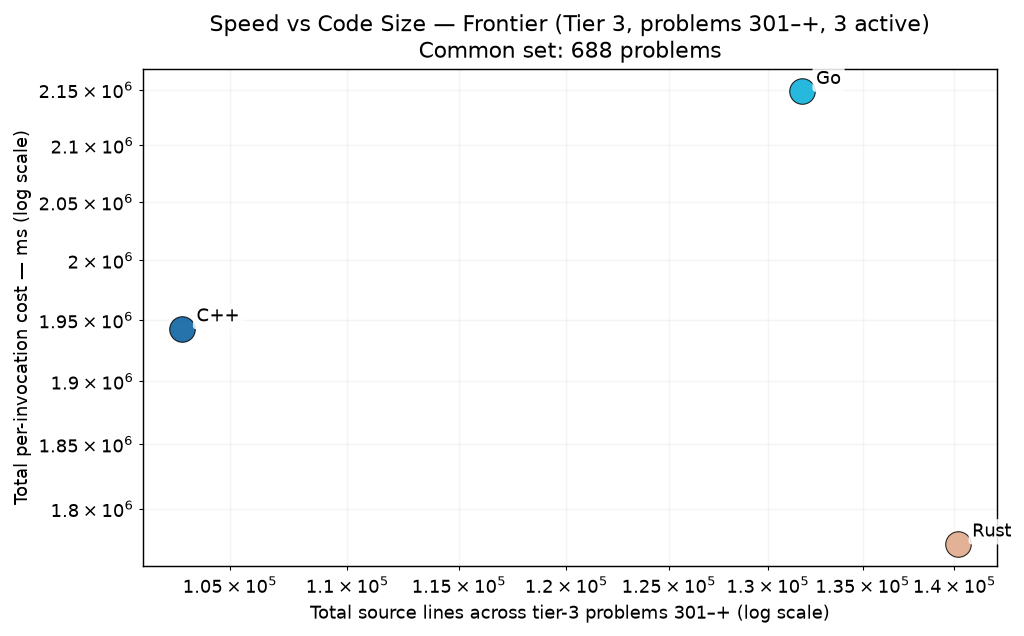
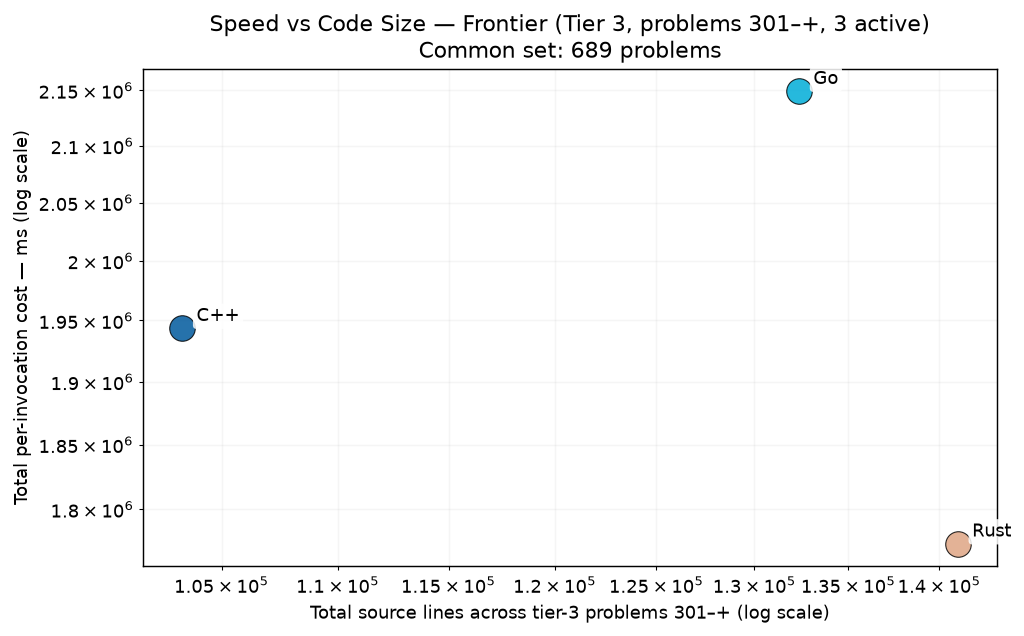
cpp p0947

diff --git a/RESULTS.md b/RESULTS.md
@@ -1,6 +1,6 @@
 # Project Euler — Cross-Language Benchmarks
 
-> **Scope: 4521 in-scope cells across 1007 problems × tiered languages — 4480 measured (99.1% coverage).**
+> **Scope: 4521 in-scope cells across 1007 problems × tiered languages — 4481 measured (99.1% coverage).**
 > The cross-language ranking below is computed over the **200-problem common set** (problems in 1-200 where every language has a passing measurement) — the apples-to-apples Foundation comparison surface.  Per-tier rankings and coverage detail appear further below.
 > Growing carefully — each new problem and language is audited for state-leak
 > safety, verified for answer correctness, and added only when it cleanly fits the
@@ -70,15 +70,15 @@ Same scatter as the Foundation chart, restricted to the tier-2 active languages 
 
 The frontier verification trio — C++, Go, Rust — on problems above 300. 3-way cross-language agreement is the verification protocol (strictly stronger than 2-way; see JOURNEY.md "Tier Reframing" episode for the p254 lesson that motivated it). Python and Zig are explicitly out of this tier — python's wall cost makes it impractical at level 5+, and zig's role caps at Tier 2.
 
-### Per-Invocation Cost (Common Set, 688 of ≤707 problems in scope)
+### Per-Invocation Cost (Common Set, 689 of ≤707 problems in scope)
 
 ![Per-Invocation Cost — Tier 3](charts/per_iter_total_tier3.png)
 
-| Rank | Language | Geomean (688-problem common set) | Total (sum) | Lines of code | vs Fastest |
+| Rank | Language | Geomean (689-problem common set) | Total (sum) | Lines of code | vs Fastest |
 |------|----------|--------------------:|------------:|--------------:|-----------:|
-| 1 | **Rust** | 76.31 ms | 1773.41 s | 140,184 | 1.00× |
-| 2 | **C++** | 79.94 ms | 1942.84 s | 103,013 | 1.05× |
-| 3 | **Go** | 89.51 ms | 2148.63 s | 131,757 | 1.17× |
+| 1 | **Rust** | 76.49 ms | 1773.80 s | 141,048 | 1.00× |
+| 2 | **C++** | 80.20 ms | 1943.61 s | 103,348 | 1.05× |
+| 3 | **Go** | 89.75 ms | 2149.17 s | 132,349 | 1.17× |
 
 ### Speed vs Code Size
 
@@ -264,7 +264,7 @@ table never silently mixes versions (METHODOLOGY.md §4).  Current state of the
 |----------|-----------|------:|---------------|
 | **ARM64** | `Apple clang version 21.0.0 (clang-2100.1.1.101)` | 200 | 2026-07-30 |
 | **C** | `Apple clang version 21.0.0 (clang-2100.1.1.101)` | 200 | 2026-07-30 |
-| **C++** | `Apple clang version 21.0.0 (clang-2100.1.1.101)` | 988 | 2026-09-07 |
+| **C++** | `Apple clang version 21.0.0 (clang-2100.1.1.101)` | 989 | 2026-09-08 |
 | **C#** | `10.0.101` | 200 | 2026-07-30 |
 | **Go** | `go version go1.26.5 darwin/arm64` | 990 | 2026-09-08 |
 | **Java** | `openjdk version "21.0.2" 2024-01-16 LTS` | 200 | 2026-07-30 |

diff --git a/per_problem/per_problem_0901-1000.md b/per_problem/per_problem_0901-1000.md
@@ -54,7 +54,7 @@ in tier-1 display order (native → managed → interpreted).
 | **p0944** | 3.35 s | 1.92 s | 1.87 s |
 | **p0945** | 63.51 ms | 29.93 ms | 19.70 ms |
 | **p0946** | 668.33 ms | 5.10 s | 1.29 s |
-| **p0947** | — | 394.95 ms | 536.01 ms |
+| **p0947** | 764.59 ms | 394.95 ms | 536.01 ms |
 | **p0948** | 203.6 µs | 20.7 µs | 41.8 µs |
 | **p0949** | — | — | — |
 | **p0950** | 1.19 s | 144.05 ms | 248.73 ms |
